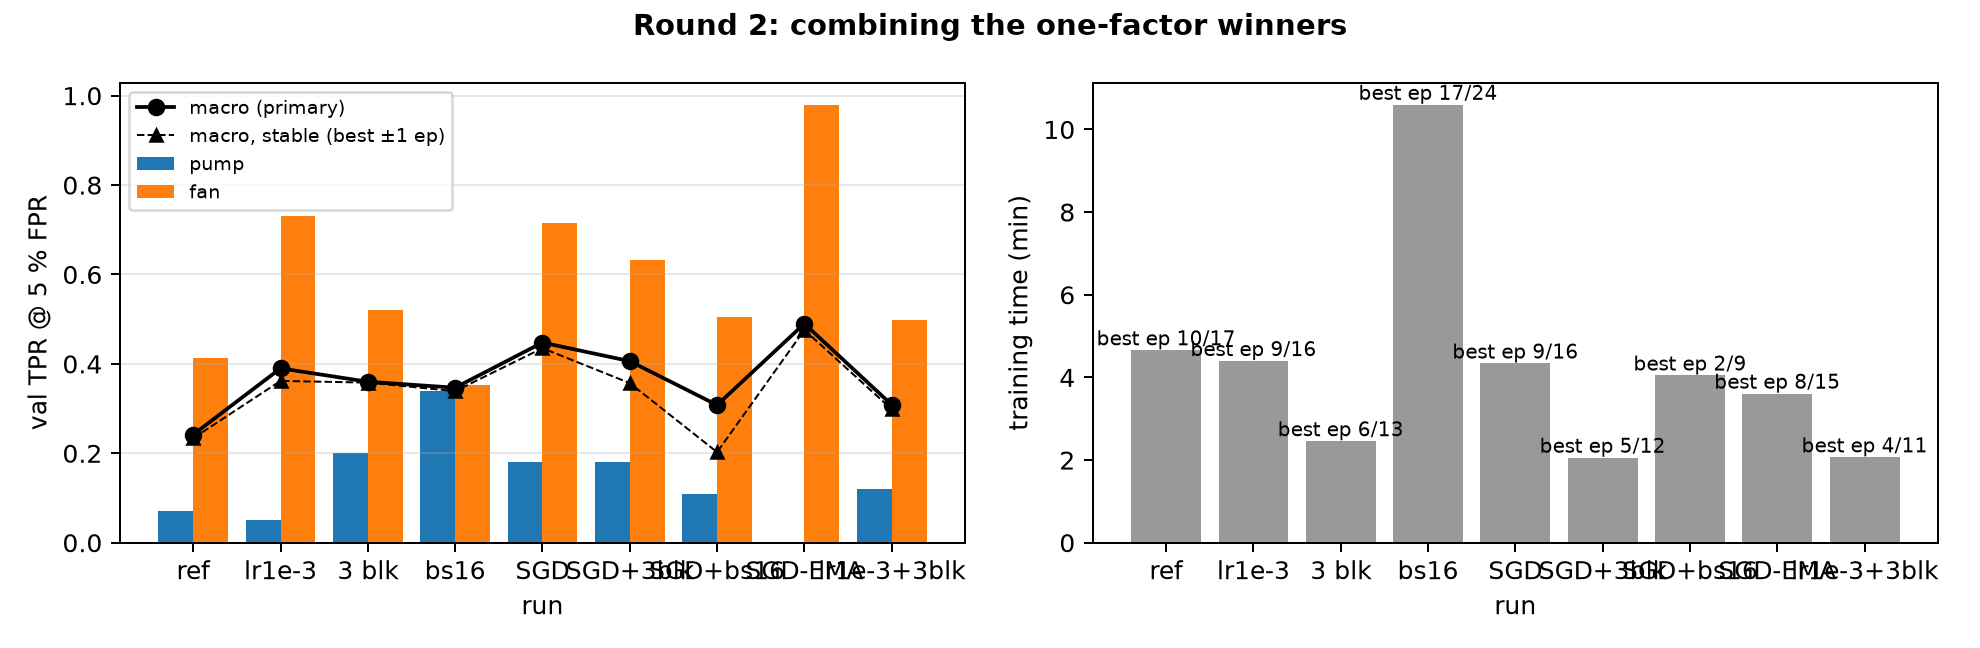
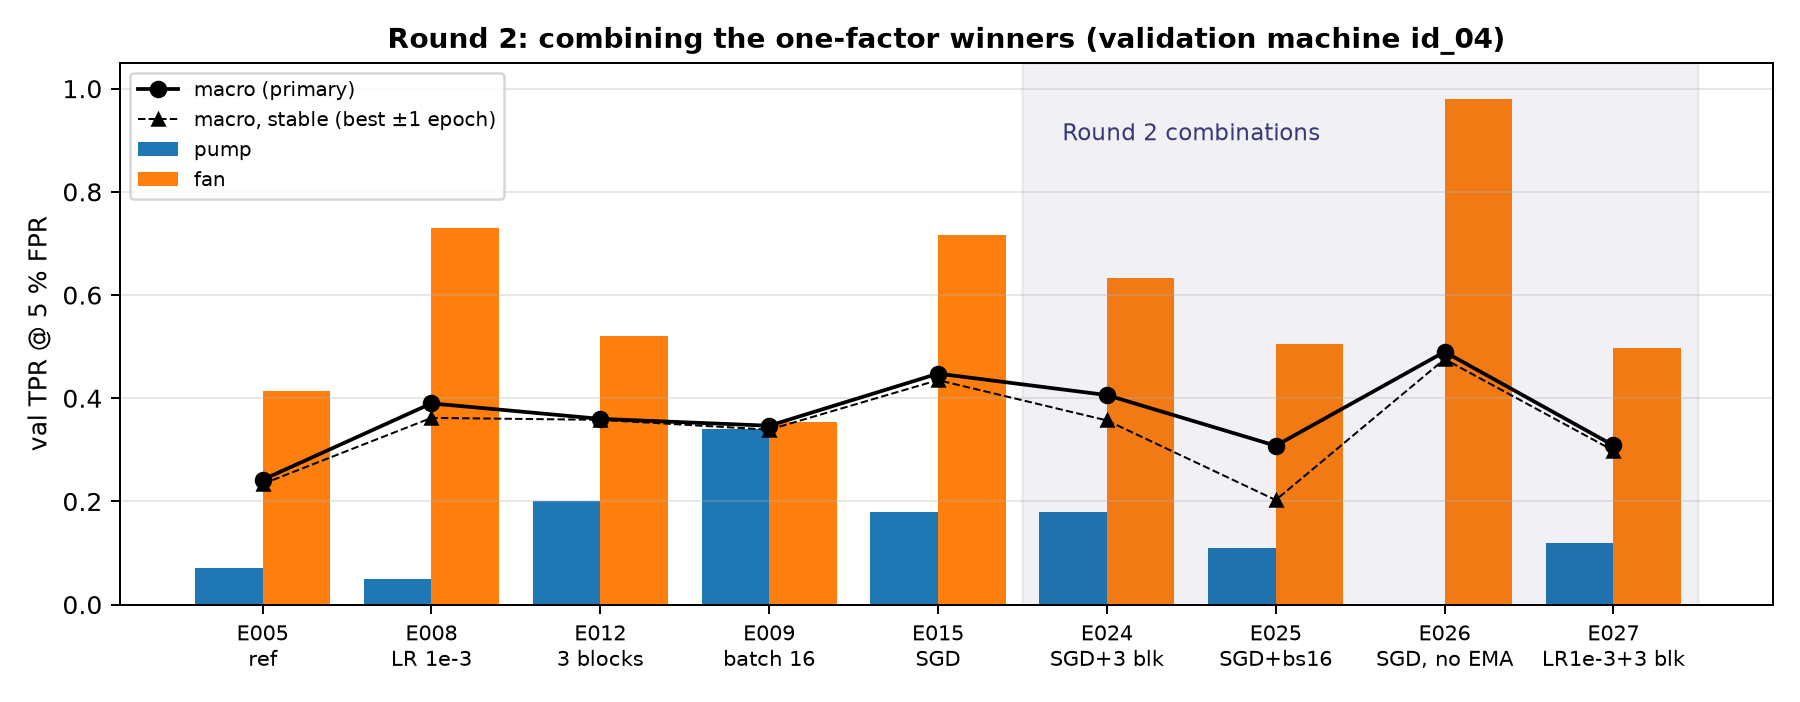
Q3: extra analysis script + experiment log with what_i_learned filled

diff --git a/scripts/q3_extra_analysis.py b/scripts/q3_extra_analysis.py
@@ -1,0 +1,112 @@
+"""
+Question 3 – extra analysis used in the report. It does NOT evaluate any model again:
+it only reads files that already exist after the one-time test evaluation.
+
+Inputs  : reports/q3_test_predictions.csv, reports/q3_comparison.csv, reports/q3_runs_summary.csv
+Outputs : reports/q3_extra_analysis.md
+          reports/figures/q3_val_vs_test.png     validation vs test for the four compared models
+          reports/figures/q3_combination.png     Round 2 figure with readable labels
+
+Run:  python -m scripts.q3_extra_analysis
+"""
+from __future__ import annotations
+
+import sys
+from pathlib import Path
+
+import matplotlib
+matplotlib.use("Agg")
+import matplotlib.pyplot as plt
+import numpy as np
+import pandas as pd
+from sklearn.metrics import roc_auc_score, roc_curve
+
+sys.path.insert(0, str(Path(__file__).resolve().parents[1]))
+from src import config  # noqa: E402
+
+R, FIG = config.REPORTS_DIR, config.FIGURES_DIR
+
+
+def recall_at(y, s, fpr_max):
+    f, t, _ = roc_curve(y, s)
+    return float(t[f <= fpr_max].max())
+
+
+def main() -> None:
+    d = pd.read_csv(R / "q3_test_predictions.csv")
+    lines = ["# Q3 extra analysis (deployed final ANN, test machine id_06)\n",
+             "Computed from reports/q3_test_predictions.csv - no model was evaluated again.\n",
+             "## Recall at 1 %, 5 % and 10 % false-alarm rate, and ranking quality"]
+    rows = []
+    for t in ["pump", "fan"]:
+        k = d.machine_type == t
+        y, s = d.label[k], d.score[k]
+        rows.append({"machine": t, "recall@1%FPR": round(recall_at(y, s, 0.01), 3),
+                     "recall@5%FPR": round(recall_at(y, s, 0.05), 3), "recall@10%FPR": round(recall_at(y, s, 0.10), 3),
+                     "ROC-AUC": round(roc_auc_score(y, s), 3),
+                     "median score normal": round(s[y == 0].median(), 3),
+                     "median score abnormal": round(s[y == 1].median(), 3)})
+    lines.append(pd.DataFrame(rows).to_markdown(index=False))
+
+    lines.append("\n## Loudness relative to the median normal clip of the same machine (data-quality check)")
+    d["far_3db"] = d.rel_db.abs() > 3
+    g = d.groupby(["machine_type", "label"]).agg(clips=("score", "size"), share_more_than_3dB_away=("far_3db", "mean"),
+                                                 median_rel_db=("rel_db", "median")).round(3).reset_index()
+    lines.append(g.to_markdown(index=False))
+    lines.append("\nDiagnostic only (uses test labels, never used to build or choose a model): ROC-AUC of |level difference| = "
+                 + ", ".join(f"{t} {roc_auc_score(d.label[d.machine_type == t], d.rel_db[d.machine_type == t].abs()):.3f}"
+                             for t in ["pump", "fan"]))
+
+    ab = d[d.label == 1]
+    lines.append("\n## Overlap of detected faults with the classical baseline (at validation thresholds)")
+    lines.append(f"both detect {int(((ab.pred == 1) & (ab.baseline_pred == 1)).sum())}, ANN only "
+                 f"{int(((ab.pred == 1) & (ab.baseline_pred == 0)).sum())}, baseline only "
+                 f"{int(((ab.pred == 0) & (ab.baseline_pred == 1)).sum())}, both miss "
+                 f"{int(((ab.pred == 0) & (ab.baseline_pred == 0)).sum())} (of {len(ab)} abnormal clips)")
+    (R / "q3_extra_analysis.md").write_text("\n".join(lines), encoding="utf-8")
+
+    # ---- figure: validation vs test
+    c = pd.read_csv(R / "q3_comparison.csv")
+    spec = [("Trivial: loudness only", "Loudness only", "#7f7f7f", 0.0),
+            ("Classical baseline", "Classical baseline", "#ff7f0e", 0.018),
+            ("Initial ANN", "Initial ANN (E001)", "#2ca02c", 0.0),
+            ("deployed", "Final ANN (deployed)", "#d62728", -0.018)]
+    fig, ax = plt.subplots(figsize=(7.2, 3.7))
+    for key, name, col, dv in spec:
+        r = c[c.Model.str.contains(key, regex=False)].iloc[0]
+        v, t = r["Val macro TPR@FPR5"], r["Test macro TPR@FPR5"]
+        ax.plot([0, 1], [v, t], "o-", color=col, lw=2, ms=7, label=name)
+        ax.text(-0.05, v + dv, f"{v:.3f}", va="center", ha="right", fontsize=8.5, color=col)
+        ax.text(1.05, t, f"{t:.3f}", va="center", fontsize=8.5, color=col)
+    ax.axhline(0.05, color="#bbb", ls=":", lw=1)
+    ax.text(0.5, 0.062, "random = 0.05", ha="center", fontsize=8, color="#888")
+    ax.set_xticks([0, 1], ["Validation machine (id_04)\nused for every decision", "Test machine (id_06)\nused once"])
+    ax.set_xlim(-0.38, 1.35); ax.set_ylabel("macro TPR @ 5 % FPR"); ax.grid(alpha=.3, axis="y")
+    ax.legend(fontsize=8, loc="upper center", ncol=2, bbox_to_anchor=(0.5, -0.24), frameon=False)
+    ax.set_title("The ranking reverses between the validation and the test machine", fontsize=10.5, weight="bold")
+    plt.tight_layout(); plt.savefig(FIG / "q3_val_vs_test.png", dpi=180); plt.close()
+
+    # ---- figure: Round 2 with readable labels
+    s = pd.read_csv(R / "q3_runs_summary.csv").set_index("exp_id")
+    lab = {"E005": "E005\nref", "E008": "E008\nLR 1e-3", "E012": "E012\n3 blocks", "E009": "E009\nbatch 16",
+           "E015": "E015\nSGD", "E024": "E024\nSGD+3 blk", "E025": "E025\nSGD+bs16", "E026": "E026\nSGD, no EMA",
+           "E027": "E027\nLR1e-3+3 blk"}
+    ids = [i for i in lab if i in s.index]
+    sub, x = s.loc[ids], np.arange(len(ids))
+    fig, ax = plt.subplots(figsize=(10, 3.9))
+    ax.bar(x - 0.2, sub["val_TPR@FPR5_pump"], 0.4, label="pump", color="#1f77b4")
+    ax.bar(x + 0.2, sub["val_TPR@FPR5_fan"], 0.4, label="fan", color="#ff7f0e")
+    ax.plot(x, sub["val_macro_TPR@FPR5"], "ko-", label="macro (primary)")
+    ax.plot(x, sub["val_stable_macro_TPR@FPR5"], "k^--", ms=5, lw=.8, label="macro, stable (best ±1 epoch)")
+    ax.axvspan(4.5, len(ids) - 0.5, color="#393b79", alpha=.07)
+    ax.text(5.5, 0.9, "Round 2 combinations", ha="center", fontsize=9, color="#393b79")
+    ax.set_xticks(x, [lab[i] for i in ids], fontsize=8.5); ax.set_ylabel("val TPR @ 5 % FPR"); ax.set_ylim(0, 1.05)
+    ax.legend(fontsize=8, loc="upper left"); ax.grid(alpha=.3, axis="y")
+    ax.set_title("Round 2: combining the one-factor winners (validation machine id_04)", weight="bold", fontsize=11)
+    plt.tight_layout(); plt.savefig(FIG / "q3_combination.png", dpi=180); plt.close()
+    print("\n".join(lines))
+    print("\nSaved reports/q3_extra_analysis.md, figures/q3_val_vs_test.png, figures/q3_combination.png")
+
+
+if __name__ == "__main__":
+    main()

diff --git a/reports/q3_extra_analysis.md b/reports/q3_extra_analysis.md
@@ -1,0 +1,22 @@
+# Q3 extra analysis (deployed final ANN, test machine id_06)
+
+Computed from reports/q3_test_predictions.csv - no model was evaluated again.
+
+## Recall at 1 %, 5 % and 10 % false-alarm rate, and ranking quality
+| machine   |   recall@1%FPR |   recall@5%FPR |   recall@10%FPR |   ROC-AUC |   median score normal |   median score abnormal |
+|:----------|---------------:|---------------:|----------------:|----------:|----------------------:|------------------------:|
+| pump      |          0     |          0     |           0     |     0.443 |                 0.981 |                   0.976 |
+| fan       |          0.014 |          0.064 |           0.133 |     0.479 |                 0.969 |                   0.97  |
+
+## Loudness relative to the median normal clip of the same machine (data-quality check)
+| machine_type   |   label |   clips |   share_more_than_3dB_away |   median_rel_db |
+|:---------------|--------:|--------:|---------------------------:|----------------:|
+| fan            |       0 |    1015 |                      0     |           0     |
+| fan            |       1 |     361 |                      1     |          -4.666 |
+| pump           |       0 |    1036 |                      0.013 |           0     |
+| pump           |       1 |     102 |                      0.48  |           2.802 |
+
+Diagnostic only (uses test labels, never used to build or choose a model): ROC-AUC of |level difference| = pump 0.716, fan 1.000
+
+## Overlap of detected faults with the classical baseline (at validation thresholds)
+both detect 323, ANN only 31, baseline only 41, both miss 68 (of 463 abnormal clips)
